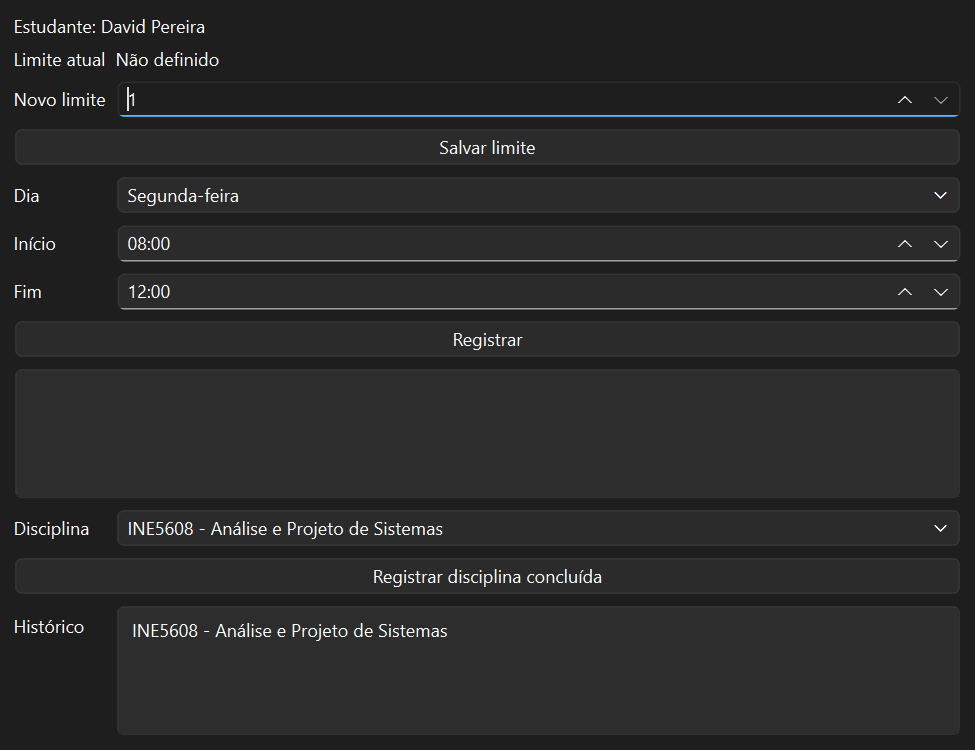
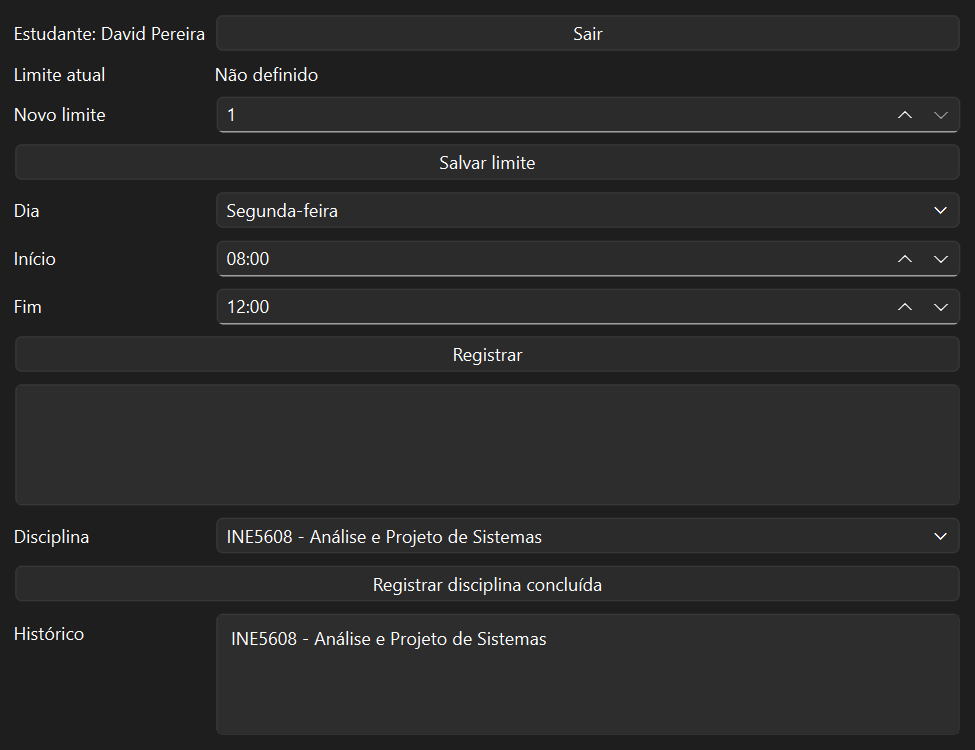
fix: deixando igual o EA

diff --git a/src/mega_moodle/views/gui.py b/src/mega_moodle/views/gui.py
@@ -17,6 +17,7 @@ from mega_moodle.controllers.administrador_controller import AdministradorContro
 from mega_moodle.controllers.cadastro_controller import CadastroController
 from mega_moodle.controllers.estudante_controller import EstudanteController
 from mega_moodle.models.dia_semana import DiaSemana
+from mega_moodle.models.disciplina import Disciplina
 from mega_moodle.models.estudante import MAX_LIMITE_DISCIPLINAS
 from mega_moodle.models.tipo_disciplina import TipoDisciplina
 
@@ -57,7 +58,7 @@ class MegaMoodleWindow(QMainWindow):
             self.identificacao.value(), self.nome_usuario.text(), perfil
         )
         if not resultado.sucesso:
-            QMessageBox.warning(self, "Cadastro", resultado.mensagem)
+            self._exibir_mensagem("Cadastro", resultado.mensagem, sucesso=False)
             return
 
         self.administrador_controller = self.controller.administrador_controller
@@ -68,7 +69,7 @@ class MegaMoodleWindow(QMainWindow):
     def _admin(self) -> QWidget:
         tela, form = self._formulario()
         nome = self.administrador_controller.administrador.nome
-        form.addRow(QLabel(f"Administrador: {nome}"))
+        form.addRow(QLabel(f"Administrador: {nome}"), self._botao("Sair", self._voltar_cadastro))
 
         self.codigo = QLineEdit()
         self.nome_disciplina = QLineEdit()
@@ -99,7 +100,7 @@ class MegaMoodleWindow(QMainWindow):
             self.tipo.currentData(),
         )
         if not resultado.sucesso:
-            QMessageBox.warning(self, "Disciplina", resultado.mensagem)
+            self._exibir_mensagem("Disciplina", resultado.mensagem, sucesso=False)
             return
 
         self._atualizar_disciplinas()
@@ -117,7 +118,10 @@ class MegaMoodleWindow(QMainWindow):
 
     def _estudante(self) -> QWidget:
         tela, form = self._formulario()
-        form.addRow(QLabel(f"Estudante: {self.estudante_controller.estudante.nome}"))
+        form.addRow(
+            QLabel(f"Estudante: {self.estudante_controller.estudante.nome}"),
+            self._botao("Sair", self._voltar_cadastro),
+        )
 
         self.limite_atual = QLabel()
         limite = self.estudante_controller.estudante.limite_disciplinas
@@ -163,7 +167,7 @@ class MegaMoodleWindow(QMainWindow):
 
         self.lista_concluidas = QListWidget()
         form.addRow("Histórico", self.lista_concluidas)
-        self._atualizar_historico(self.estudante_controller.estudante.disciplinas_concluidas)
+        self._atualizar_lista_concluidas(self.estudante_controller.estudante.disciplinas_concluidas)
 
         return tela
 
@@ -174,28 +178,30 @@ class MegaMoodleWindow(QMainWindow):
 
         resultado = self.estudante_controller.registrar_disciplina_concluida(disciplina)
         if not resultado.sucesso:
-            QMessageBox.warning(self, "Disciplina concluída", resultado.mensagem)
+            self._exibir_mensagem("Disciplina concluída", resultado.mensagem, sucesso=False)
             return
 
         if resultado.disciplinas is not None:
-            self._atualizar_historico(resultado.disciplinas)
-        QMessageBox.information(self, "Disciplina concluída", resultado.mensagem)
+            self._atualizar_lista_concluidas(resultado.disciplinas)
+        self._exibir_mensagem("Disciplina concluída", resultado.mensagem, sucesso=True)
 
-    def _atualizar_historico(self, disciplinas: list) -> None:
+    def _atualizar_lista_concluidas(self, disciplinas: list[Disciplina]) -> None:
         self.lista_concluidas.clear()
         for disciplina in disciplinas:
             self.lista_concluidas.addItem(f"{disciplina.codigo} - {disciplina.nome}")
+
+    _atualizar_historico = _atualizar_lista_concluidas
 
     def _salvar_limite(self) -> None:
         resultado = self.estudante_controller.definir_limite_disciplinas(
             self.limite_disciplinas.value()
         )
         if not resultado.sucesso:
-            QMessageBox.warning(self, "Limite de disciplinas", resultado.mensagem)
+            self._exibir_mensagem("Limite de disciplinas", resultado.mensagem, sucesso=False)
             return
 
         self._atualizar_limite(resultado.limite)
-        QMessageBox.information(self, "Limite de disciplinas", resultado.mensagem)
+        self._exibir_mensagem("Limite de disciplinas", resultado.mensagem, sucesso=True)
 
     def _atualizar_limite(self, limite: int | None) -> None:
         self.limite_atual.setText(str(limite) if limite else "Não definido")
@@ -207,7 +213,7 @@ class MegaMoodleWindow(QMainWindow):
             self.fim.time().toPython(),
         )
         if not resultado.sucesso:
-            QMessageBox.warning(self, "Disponibilidade", resultado.mensagem)
+            self._exibir_mensagem("Disponibilidade", resultado.mensagem, sucesso=False)
             return
 
         self._atualizar_disponibilidades()
@@ -221,8 +227,19 @@ class MegaMoodleWindow(QMainWindow):
                 f"{disponibilidade.hora_fim:%H:%M}"
             )
 
+    def _exibir_mensagem(self, titulo: str, mensagem: str, sucesso: bool = True) -> None:
+        if sucesso:
+            QMessageBox.information(self, titulo, mensagem)
+        else:
+            QMessageBox.warning(self, titulo, mensagem)
+
     @staticmethod
     def _botao(texto: str, acao) -> QPushButton:
         botao = QPushButton(texto)
         botao.clicked.connect(acao)
         return botao
+
+    def _voltar_cadastro(self) -> None:
+        self.administrador_controller = None
+        self.estudante_controller = None
+        self.setCentralWidget(self._cadastro())

diff --git a/tests/test_historico_disciplinas.py b/tests/test_historico_disciplinas.py
@@ -216,6 +216,20 @@ class HistoricoControllerTest(unittest.TestCase):
             self.assertFalse(res.sucesso)
             self.assertIsNone(reaberto.estudante_controller)
 
+    def test_carregar_estudante_popula_disponibilidades_e_historico(self):
+        self.estudante_ctrl.registrar_disciplina_concluida(self.d1)
+        estudante_novo = Estudante(2, "David")
+        ctrl = type(self.estudante_ctrl)(
+            estudante_novo,
+            self.estudante_ctrl.disponibilidade_dao,
+            self.estudante_ctrl.estudante_dao,
+            self.estudante_ctrl.historico_dao,
+        )
+        self.assertEqual(ctrl.estudante.disciplinas_concluidas, [])
+        ctrl.carregar_estudante()
+        self.assertEqual(len(ctrl.estudante.disciplinas_concluidas), 1)
+        self.assertEqual(ctrl.estudante.disciplinas_concluidas[0].codigo, "INE5608")
+
 
 class HistoricoGUITest(unittest.TestCase):
     @classmethod
@@ -317,3 +331,23 @@ class HistoricoGUITest(unittest.TestCase):
 
         self.assertEqual(janela_estudante.lista_concluidas.count(), 0)
         self.assertEqual(janela_estudante.estudante_controller.estudante.disciplinas_concluidas, [])
+
+    def test_exibir_mensagem_chama_qmessagebox(self):
+        with patch("mega_moodle.views.gui.QMessageBox.information") as info, patch(
+            "mega_moodle.views.gui.QMessageBox.warning"
+        ) as aviso:
+            self.janela._exibir_mensagem("Título", "Sucesso!", sucesso=True)
+            info.assert_called_once_with(self.janela, "Título", "Sucesso!")
+            self.janela._exibir_mensagem("Título", "Erro!", sucesso=False)
+            aviso.assert_called_once_with(self.janela, "Título", "Erro!")
+
+    def test_atualizar_lista_concluidas_aceita_tipo_disciplina(self):
+        self.abrir_perfil(self.janela, "Estudante", id_usuario=2, nome="David")
+        disciplinas = [
+            Disciplina("INE5608", "APS", 72, 4, TipoDisciplina.OBRIGATORIA),
+            Disciplina("INE5609", "Estruturas", 72, 3, TipoDisciplina.OBRIGATORIA),
+        ]
+        self.janela._atualizar_lista_concluidas(disciplinas)
+        self.assertEqual(self.janela.lista_concluidas.count(), 2)
+        self.assertIn("INE5608", self.janela.lista_concluidas.item(0).text())
+        self.assertIn("INE5609", self.janela.lista_concluidas.item(1).text())

diff --git a/src/mega_moodle/controllers/cadastro_controller.py b/src/mega_moodle/controllers/cadastro_controller.py
@@ -18,7 +18,7 @@ class CadastroController:
         disciplina_dao: DisciplinaDAO,
         estudante_dao: EstudanteDAO,
         disponibilidade_dao: DisponibilidadeDAO,
-        historico_dao: HistoricoDAO | None = None,
+        historico_dao: HistoricoDAO,
     ) -> None:
         self.disciplina_dao = disciplina_dao
         self.estudante_dao = estudante_dao
@@ -51,20 +51,19 @@ class CadastroController:
                     return ResultadoOperacao(
                         False, "Não foi possível carregar os dados do perfil."
                     )
-                estudante.disponibilidades = self.disponibilidade_dao.listar(identificacao)
-                if self.historico_dao is not None:
-                    estudante.disciplinas_concluidas = self.historico_dao.listar_concluidas(
-                        identificacao
-                    )
                 catalogo = self.disciplina_dao.listar()
-                self.estudante_controller = EstudanteController(
+                controller = EstudanteController(
                     estudante,
                     self.disponibilidade_dao,
                     self.estudante_dao,
                     self.historico_dao,
                     catalogo,
                 )
+                controller.carregar_estudante()
+                self.estudante_controller = controller
         except (sqlite3.Error, ValueError):
+            self.administrador_controller = None
+            self.estudante_controller = None
             return ResultadoOperacao(False, "Não foi possível carregar os dados do perfil.")
 
         return ResultadoOperacao(True, "Perfil carregado.")

diff --git a/src/mega_moodle/controllers/estudante_controller.py b/src/mega_moodle/controllers/estudante_controller.py
@@ -17,7 +17,7 @@ class EstudanteController:
         estudante: Estudante,
         disponibilidade_dao: DisponibilidadeDAO,
         estudante_dao: EstudanteDAO,
-        historico_dao: HistoricoDAO | None = None,
+        historico_dao: HistoricoDAO,
         catalogo_disciplinas: list[Disciplina] | None = None,
     ) -> None:
         self.estudante = estudante
@@ -26,6 +26,13 @@ class EstudanteController:
         self.historico_dao = historico_dao
         self.catalogo_disciplinas: list[Disciplina] = (
             catalogo_disciplinas if catalogo_disciplinas is not None else []
+        )
+
+    def carregar_estudante(self) -> None:
+        """Carrega disponibilidades e histórico do estudante a partir dos DAOs."""
+        self.estudante.disponibilidades = self.disponibilidade_dao.listar(self.estudante.id)
+        self.estudante.disciplinas_concluidas = self.historico_dao.listar_concluidas(
+            self.estudante.id
         )
 
     @property
@@ -67,9 +74,6 @@ class EstudanteController:
     def registrar_disciplina_concluida(
         self, disciplina: Disciplina
     ) -> ResultadoOperacao:
-        if self.historico_dao is None:
-            return ResultadoOperacao(False, "DAO de histórico não configurado.")
-
         status = self.historico_dao.registrar(self.estudante.id, disciplina.codigo)
         if status is StatusPersistencia.DUPLICADO:
             return ResultadoOperacao(False, "Disciplina já registrada como concluída.")

diff --git a/tests/test_gui.py b/tests/test_gui.py
@@ -145,3 +145,16 @@ class TelasTest(unittest.TestCase):
         self.abrir_perfil(reaberta, "Estudante")
         self.assertEqual(reaberta.lista.count(), 1)
         self.assertIn("08:00 às 12:00", reaberta.lista.item(0).text())
+
+    def test_sair_volta_para_tela_de_cadastro(self):
+        self.abrir_perfil(self.janela, "Administrador")
+        self.assertIsNotNone(self.janela.administrador_controller)
+        self.janela._voltar_cadastro()
+        self.assertIsNone(self.janela.administrador_controller)
+        self.assertTrue(hasattr(self.janela, "nome_usuario"))
+
+        self.abrir_perfil(self.janela, "Estudante")
+        self.assertIsNotNone(self.janela.estudante_controller)
+        self.janela._voltar_cadastro()
+        self.assertIsNone(self.janela.estudante_controller)
+        self.assertTrue(hasattr(self.janela, "nome_usuario"))

diff --git a/src/mega_moodle/main.py b/src/mega_moodle/main.py
@@ -48,3 +48,8 @@ def main_cli() -> None:
         print("Não foi possível abrir o banco de dados.")
         raise SystemExit(1)
     executar(controller)
+
+
+if __name__ == "__main__":
+    main()
+
